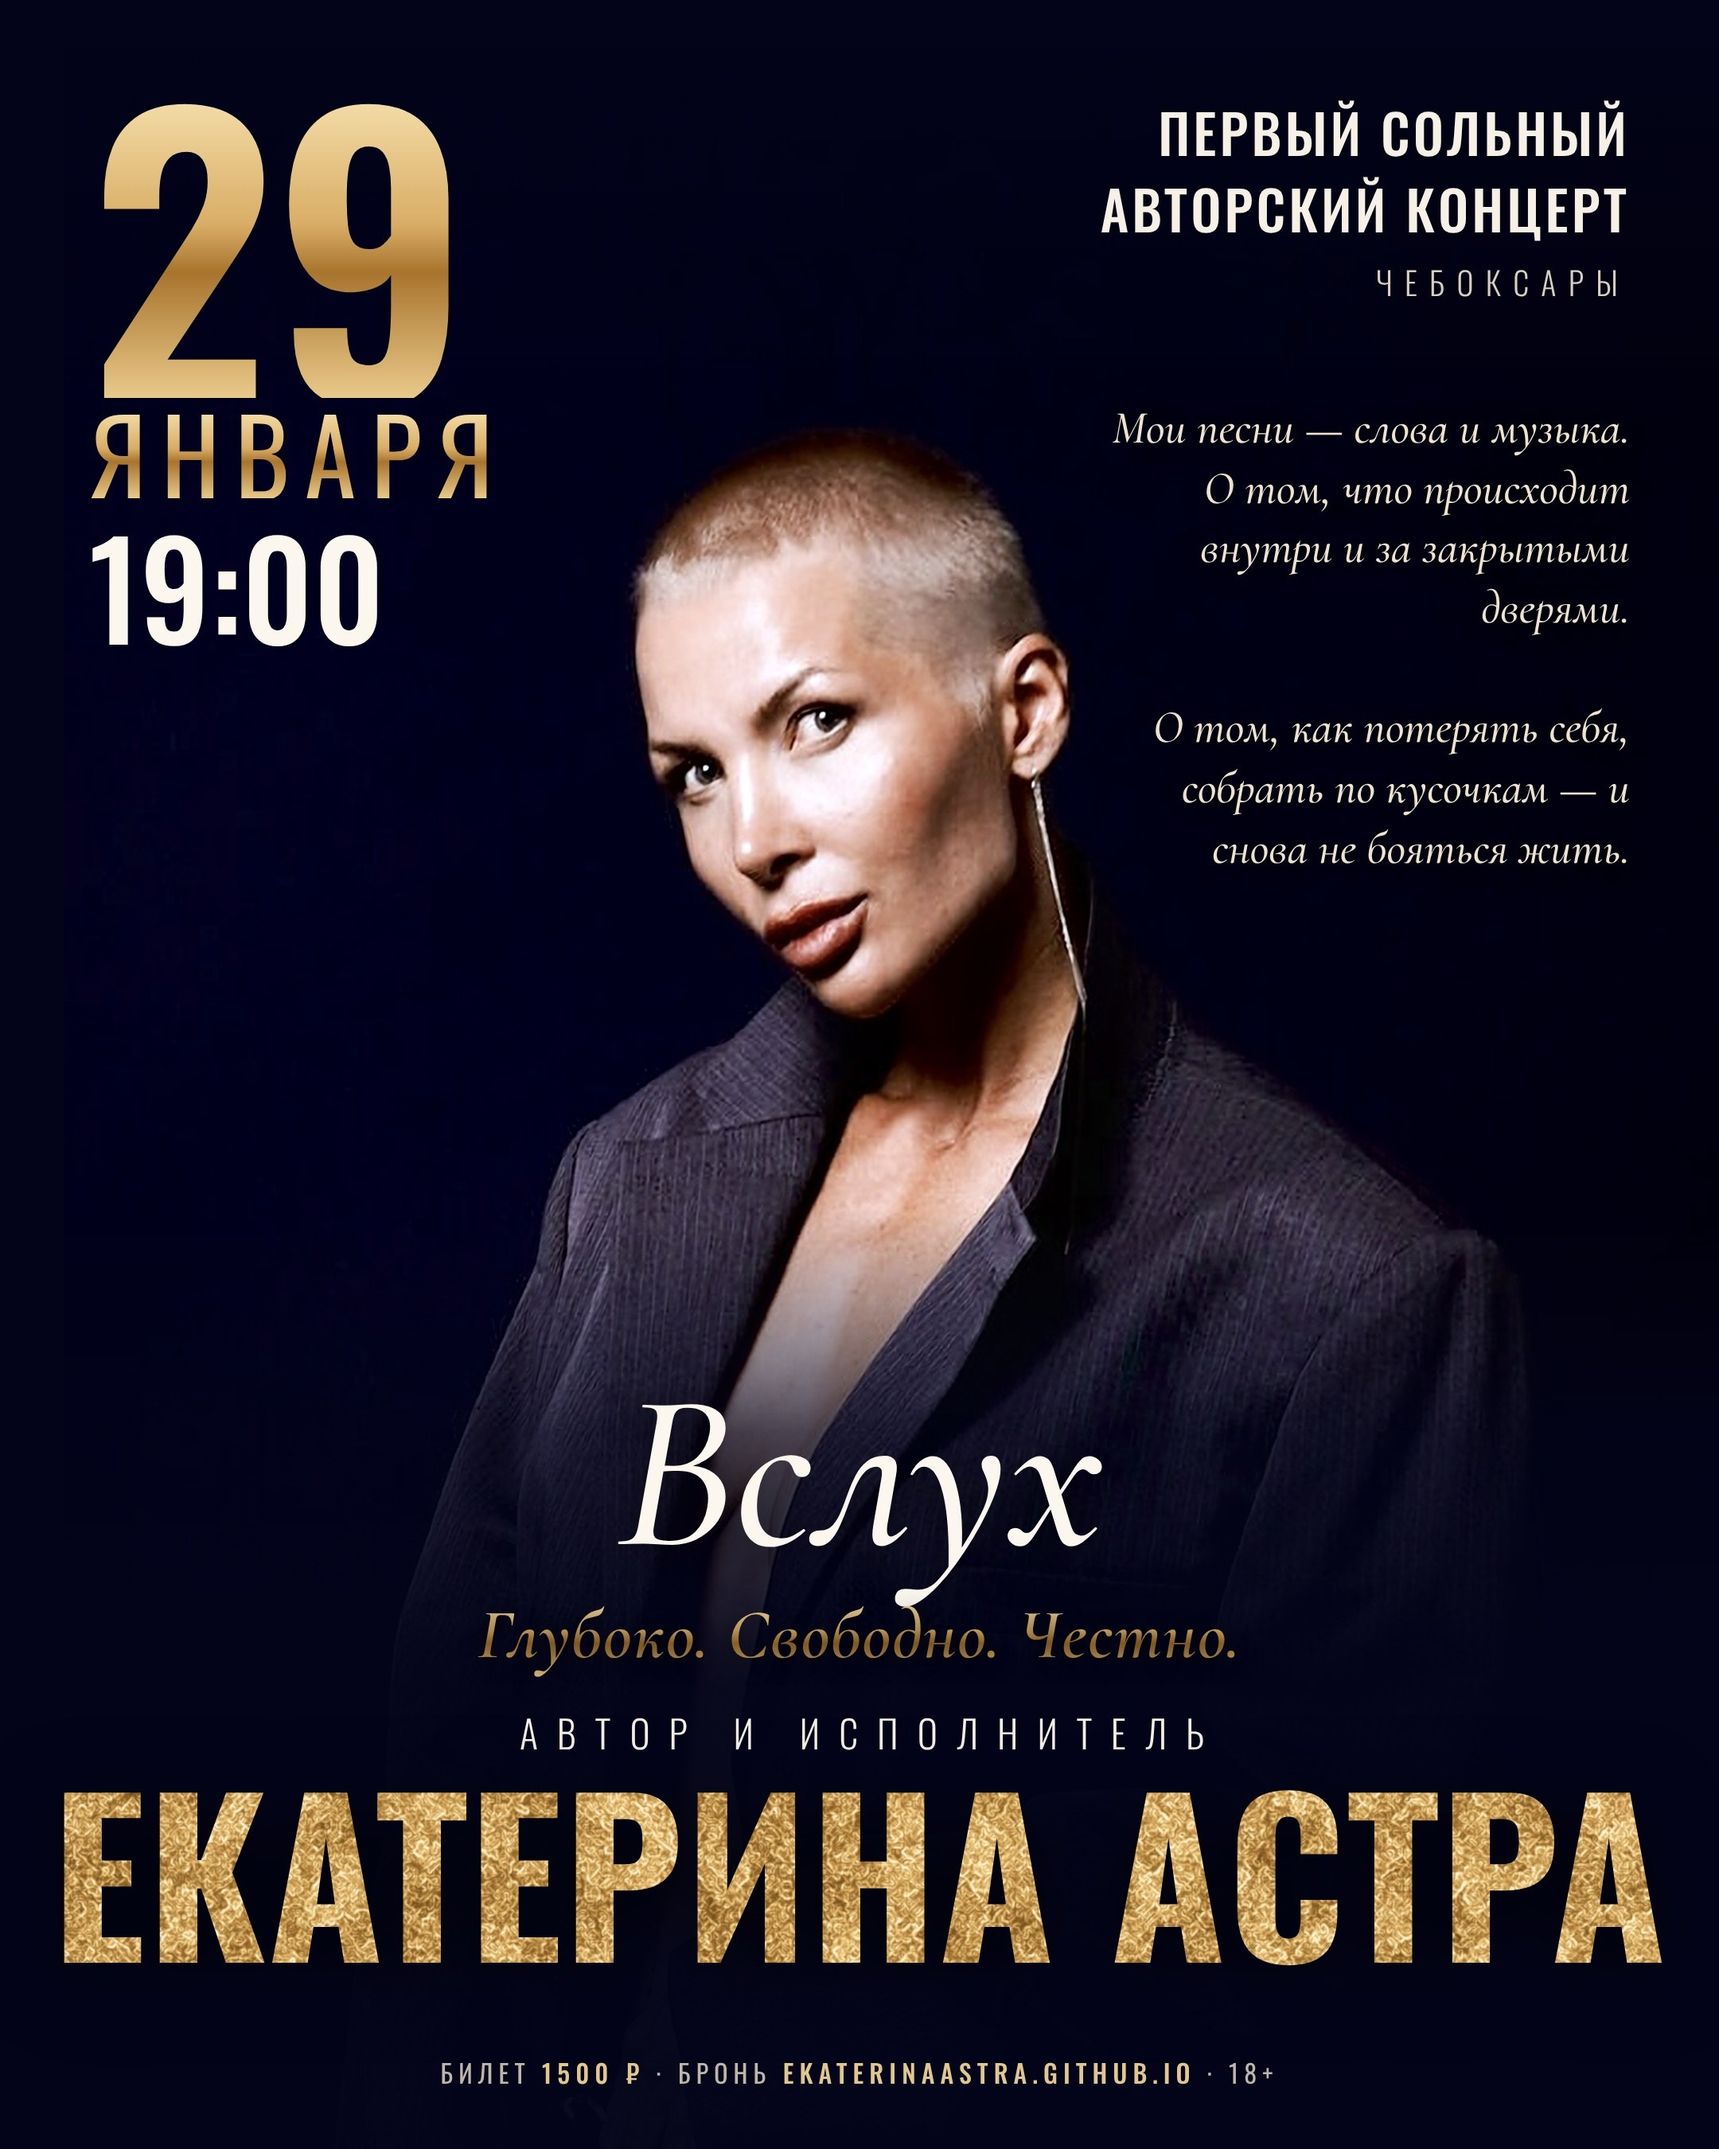
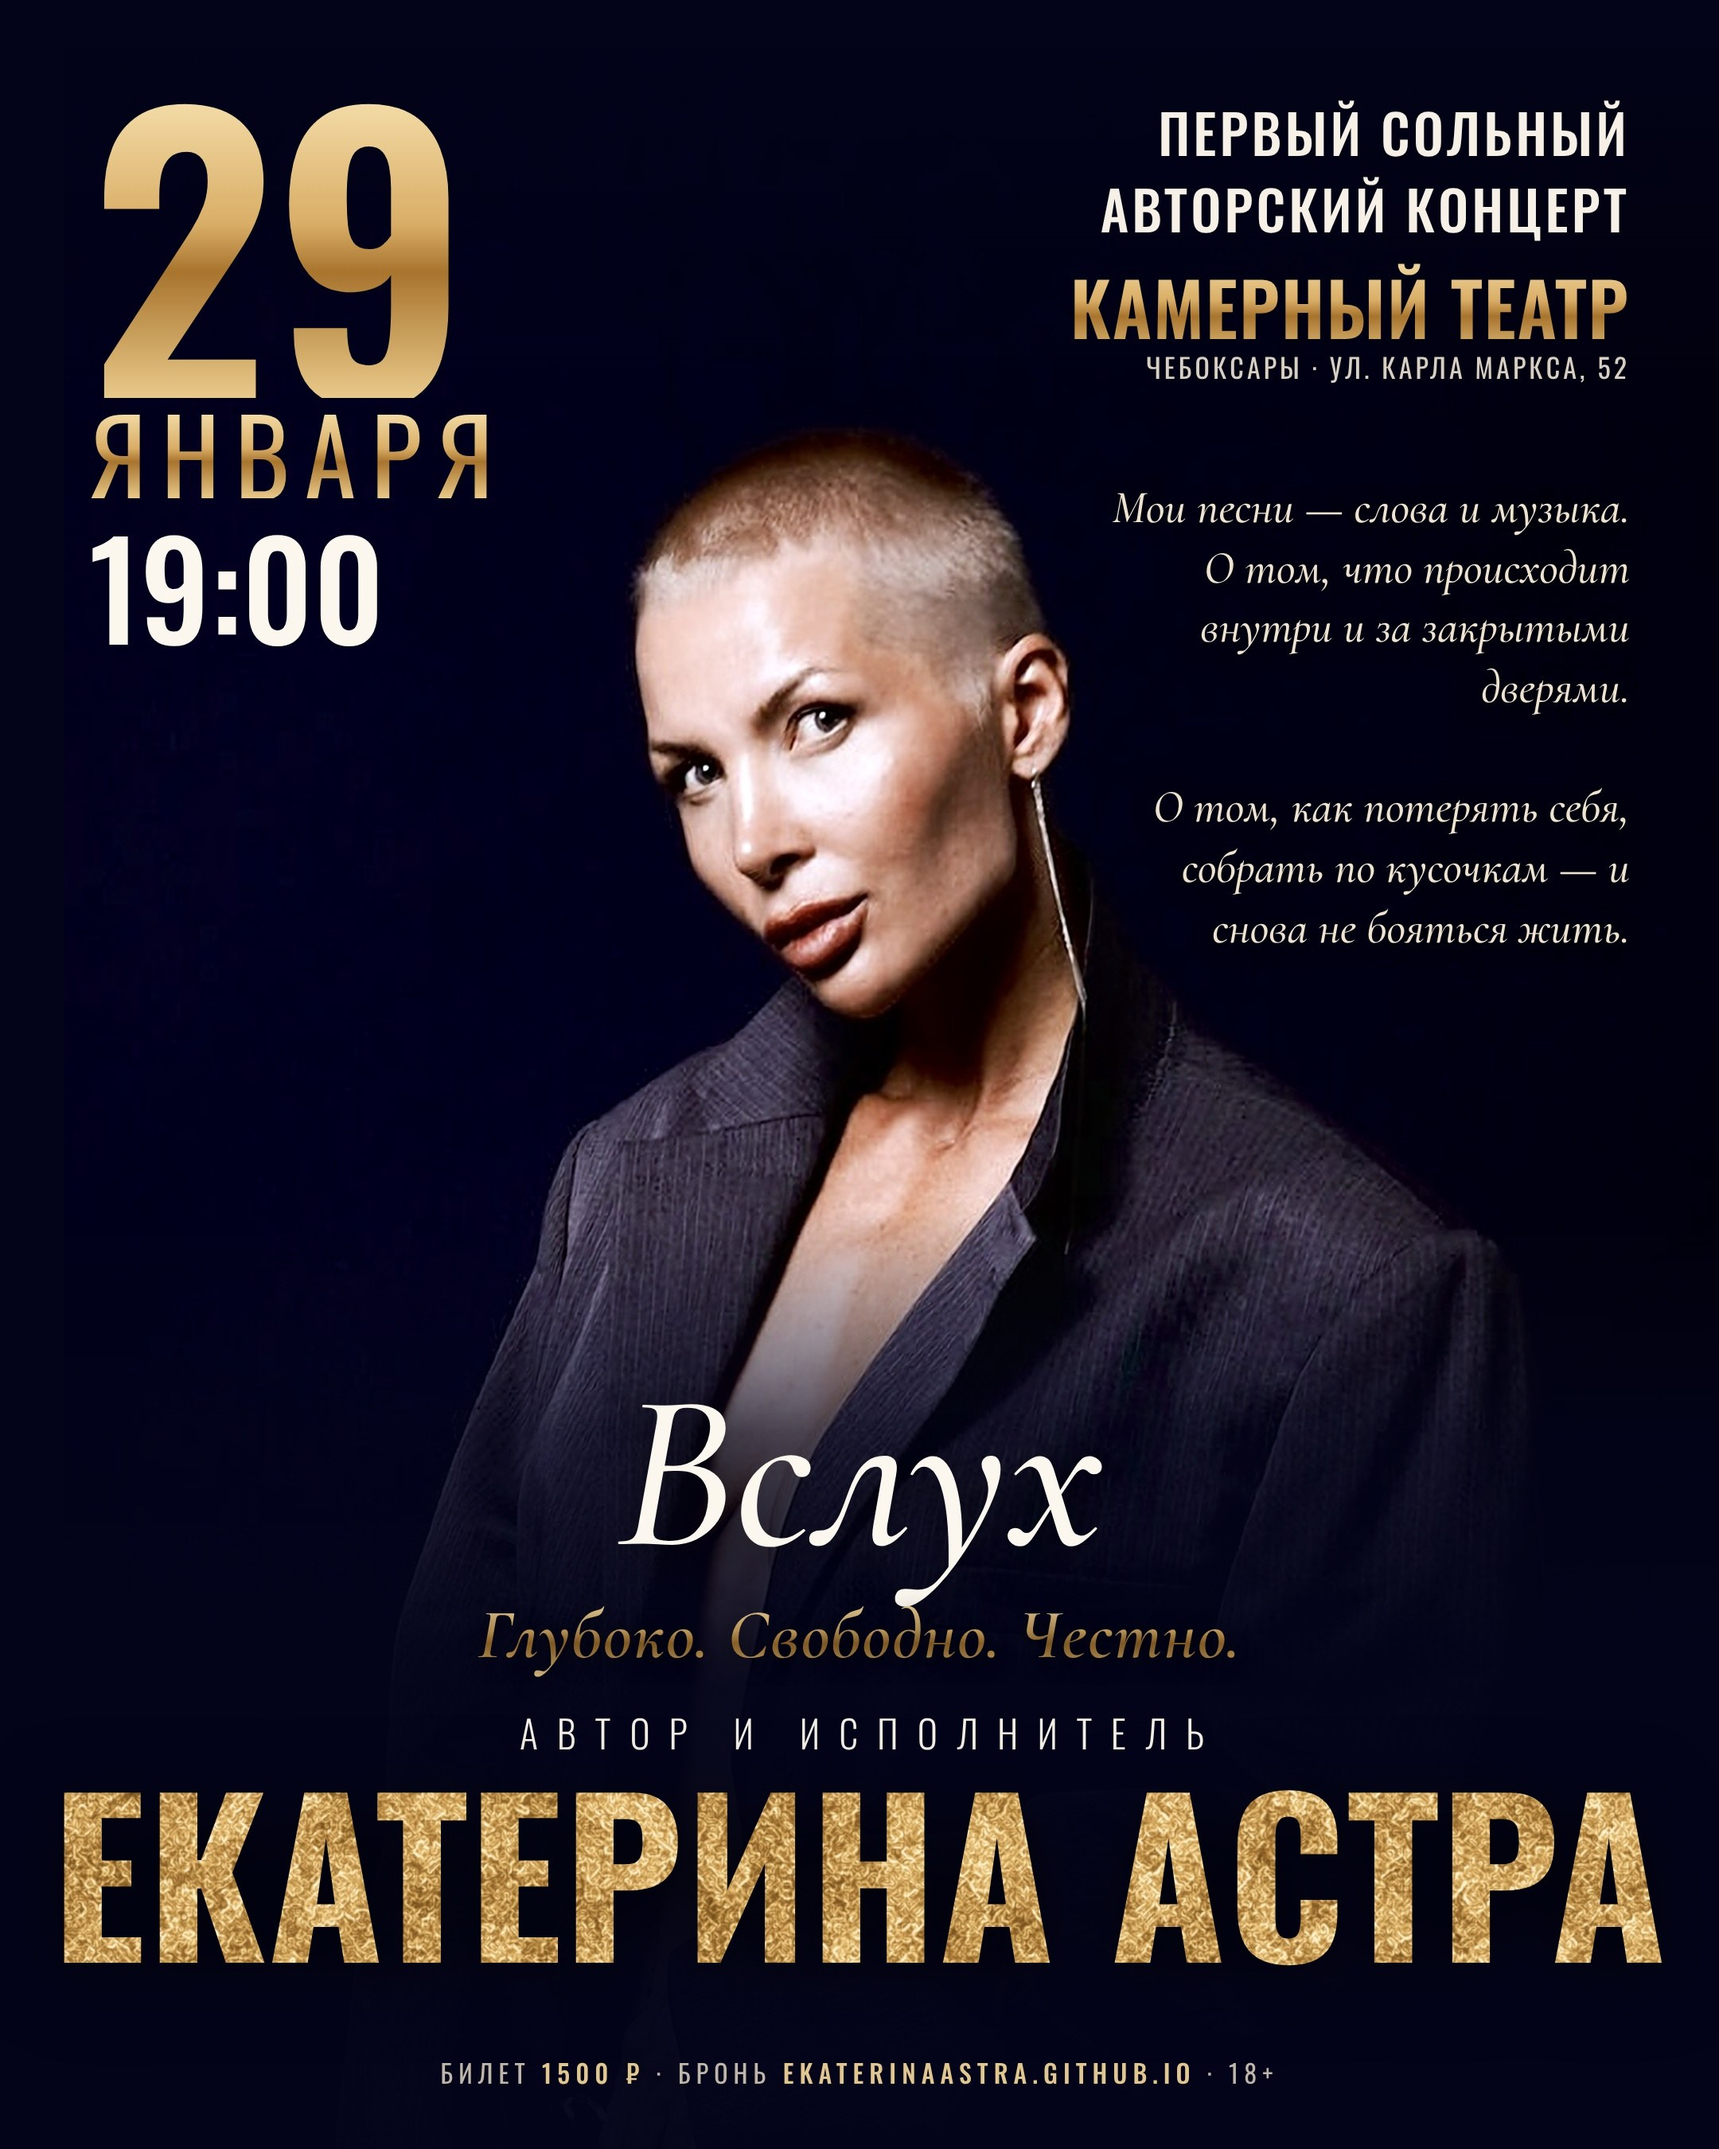
Концерт «Вслух»: Чебоксарский камерный театр
Claude-Session: https://claude.ai/code/session_01V88sGK2Mrs1G1ttqQjZDwq

Changed region(s): [[0.6204, 0.1244, 0.9616, 0.4356]]

diff --git a/concert.html b/concert.html
@@ -4,12 +4,12 @@
 <meta charset="utf-8">
 <meta name="yandex-verification" content="9beaf05894169498" />
 <meta name="viewport" content="width=device-width,initial-scale=1,viewport-fit=cover">
-<meta name="description" content="«Вслух» — первый сольный авторский концерт Екатерины Астры. 29 января 2027, 19:00, Чебоксары. Глубоко. Свободно. Честно. Билет 1500 ₽.">
+<meta name="description" content="«Вслух» — первый сольный авторский концерт Екатерины Астры. 29 января 2027, 19:00, Камерный театр, Чебоксары. Глубоко. Свободно. Честно. Билет 1500 ₽.">
 <style>:root{padding-top:env(safe-area-inset-top,0px);padding-bottom:env(safe-area-inset-bottom,0px)}body{margin:0}img{max-width:100%}[hidden]{display:none!important}</style>
 <title>«Вслух» — первый сольный авторский концерт Екатерины Астры, 29 января</title>
 <meta property="og:title" content="Екатерина Астра. «Вслух» · 29 января 2027 · Чебоксары">
-<meta property="og:description" content="Первый сольный авторский концерт. Глубоко. Свободно. Честно. 29 января, 19:00, Чебоксары.">
-<meta property="og:image" content="https://ekaterinaastra.github.io/media/afisha-vsluh.jpg?v=5">
+<meta property="og:description" content="Первый сольный авторский концерт. Глубоко. Свободно. Честно. 29 января, 19:00, Камерный театр, Чебоксары.">
+<meta property="og:image" content="https://ekaterinaastra.github.io/media/afisha-vsluh.jpg?v=6">
 <link rel="canonical" href="https://ekaterinaastra.github.io/concert.html">
 <meta name="claude:viewport-fit-sides" content="cover">
 <link rel="preconnect" href="https://fonts.googleapis.com">
@@ -211,7 +211,7 @@ footer .wrap{padding-block:56px 64px;display:grid;gap:24px}
       <h1><span>Вслух</span></h1>
       <div class="motto">Глубоко. Свободно. Честно.</div>
       <p class="lead">Первый сольный авторский концерт. Мои песни — слова и музыка. О том, что происходит внутри и за закрытыми дверями. О том, как потерять себя, собрать по кусочкам — и снова не бояться жить.</p>
-      <div class="c-meta"><span><b>29 января 2027</b>, пятница</span><span><b>19:00</b></span><span><b>Чебоксары</b></span></div>
+      <div class="c-meta"><span><b>29 января 2027</b>, пятница</span><span><b>19:00</b></span><span><b>Камерный театр</b></span><span>Чебоксары, ул.&nbsp;Карла&nbsp;Маркса,&nbsp;52</span></div>
       <div class="ctas">
         <a class="btn solid" href="https://forms.yandex.ru/u/6af9ec254a052d463db59879/" target="_blank" rel="noopener">Забронировать место</a>
         <a class="btn ghost" href="#program">Программа</a>
@@ -219,7 +219,7 @@ footer .wrap{padding-block:56px 64px;display:grid;gap:24px}
       <div class="count"><strong id="days">—</strong><span id="days-label">дней до концерта</span></div>
       </div>
       <figure class="c-poster">
-        <a href="media/afisha-vsluh-hd.jpg" target="_blank" rel="noopener"><img src="media/afisha-vsluh.jpg?v=5" width="1080" height="1350" alt="Афиша: Екатерина Астра, автор и исполнитель. «Вслух» — первый сольный авторский концерт. Глубоко. Свободно. Честно. 29 января, 19:00, Чебоксары. Билет 1500 ₽"></a>
+        <a href="media/afisha-vsluh-hd.jpg" target="_blank" rel="noopener"><img src="media/afisha-vsluh.jpg?v=6" width="1080" height="1350" alt="Афиша: Екатерина Астра, автор и исполнитель. «Вслух» — первый сольный авторский концерт. Глубоко. Свободно. Честно. 29 января, 19:00, Камерный театр, Чебоксары. Билет 1500 ₽"></a>
       </figure>
     </div>
   </div>
@@ -267,7 +267,7 @@ footer .wrap{padding-block:56px 64px;display:grid;gap:24px}
       <div class="sec-head" style="margin:0">
         <div class="eyebrow">Билеты</div>
         <h2>Бронь открыта</h2>
-        <p>Площадку объявлю совсем скоро. Оставьте бронь сейчас — я первой пришлю вам ссылку на билеты и адрес.</p>
+        <p>Концерт пройдёт в Чебоксарском камерном театре. Оставьте бронь сейчас — я первой пришлю вам ссылку на билеты.</p>
         <p class="small" style="margin:0">Если вы оставляли предварительную бронь, напишите мне в VK — подскажу, как выбрать хорошие места.</p>
         <div class="ctas" style="justify-content:flex-start;margin-top:8px">
           <a class="btn solid" href="https://forms.yandex.ru/u/6af9ec254a052d463db59879/" target="_blank" rel="noopener">Забронировать место</a>
@@ -279,8 +279,8 @@ footer .wrap{padding-block:56px 64px;display:grid;gap:24px}
         <div class="date">29 января<br>2027</div>
         <dl class="facts">
           <dt>Начало</dt><dd>Пятница, 19:00</dd>
-          <dt>Город</dt><dd>Чебоксары</dd>
-          <dt>Площадка</dt><dd>объявим скоро</dd>
+          <dt>Место</dt><dd>Чебоксарский камерный театр</dd>
+          <dt>Адрес</dt><dd>Чебоксары, ул. Карла Маркса, 52</dd>
           <dt>Билет</dt><dd>1500 ₽ + бокал игристого в подарок</dd>
           <dt>Возраст</dt><dd>18+</dd>
         </dl>

diff --git a/index.html b/index.html
@@ -341,7 +341,7 @@ footer .wrap{padding-block:56px 64px;display:grid;gap:24px}
         <h2>«Вслух»</h2>
         <p class="motto" style="margin:0">Глубоко. Свободно. Честно.</p>
         <p>Песни о том, что происходит внутри и часто за закрытыми дверями. Мои песни — слова и музыка. Это концерт о нас, и он для всех.</p>
-        <p><b>Бронь открыта.</b> 29 января, 19:00, Чебоксары. Билет 1500 ₽. Площадку объявлю скоро.</p>
+        <p><b>Бронь открыта.</b> 29 января, 19:00, Камерный театр, ул. Карла Маркса, 52. Билет 1500 ₽.</p>
         <div class="ctas" style="justify-content:flex-start;margin-top:8px">
           <a class="btn solid" href="https://forms.yandex.ru/u/6af9ec254a052d463db59879/" target="_blank" rel="noopener">Забронировать место</a>
           <a class="btn ghost" href="concert.html">Программа и детали вечера</a>
@@ -352,7 +352,7 @@ footer .wrap{padding-block:56px 64px;display:grid;gap:24px}
         <div class="date">29 января<br>2027</div>
         <dl class="facts">
           <dt>Начало</dt><dd>Пятница, 19:00</dd>
-          <dt>Город</dt><dd>Чебоксары, площадку объявим скоро</dd>
+          <dt>Место</dt><dd>Камерный театр, ул. Карла Маркса, 52</dd>
           <dt>Программа</dt><dd>11 авторских песен</dd>
           <dt>Билет</dt><dd>1500 ₽, бокал игристого в подарок</dd>
         </dl>
